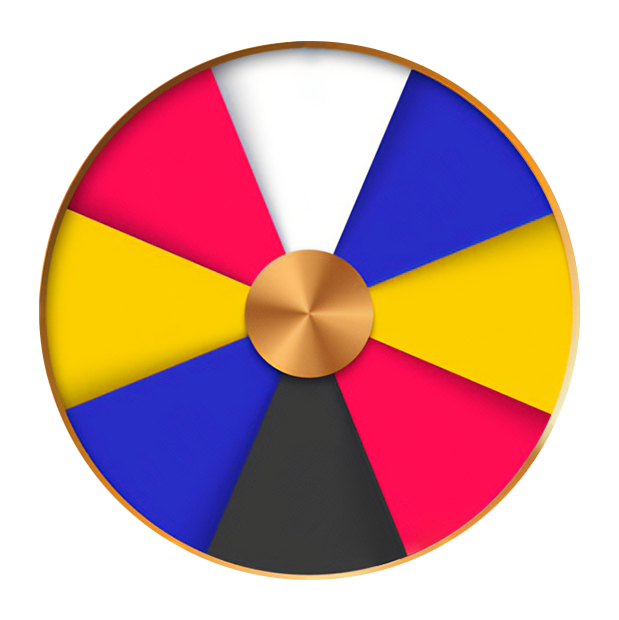
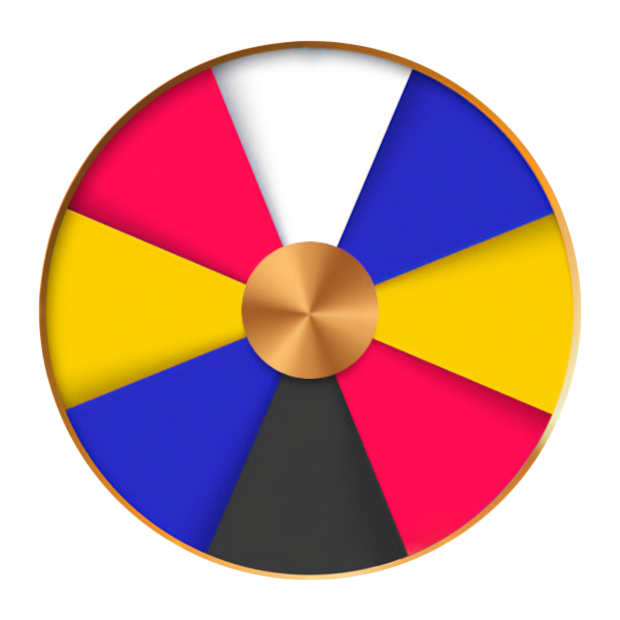
fix button header

Changed region(s): [[0.399, 0.3677, 0.6139, 0.6129], [0.3683, 0.4597, 0.399, 0.5516], [0.399, 0.5516, 0.4297, 0.5823]]

diff --git a/assets/css/pages.css b/assets/css/pages.css
@@ -63,35 +63,43 @@
 .how-to-play-btn {
   background: #505566;
   color: white;
-  border: none;
-  padding: 8px 16px;
+  padding: 5px 12px;
   border-radius: 7px;
   cursor: pointer;
-  font-size: 12px;
+  font-size: calc(0.35 * max(5vh, 80px));
+  font-weight: bold;
   white-space: nowrap;
+  height: 95%;
+  display: flex;
+  align-items: center;
 }
 
 .counter {
   background: #505566;
   color: white;
-  padding: 8px 16px;
+  padding: 5px 12px;
   border-radius: 7px;
-  font-size: 12px;
+  font-size: calc(0.35 * max(5vh, 80px));
+  font-weight: bold;
   white-space: nowrap;
+  height: 95%;
+  display: flex;
+  align-items: center;
 }
 
 .fullscreen-btn {
   background: #505566;
   color: white;
-  border: none;
-  padding: 8px;
+  padding: 5px 12px;
   border-radius: 7px;
   cursor: pointer;
-  width: 30px;
-  height: 30px;
+  height: 95%;
+  min-width: 60px;
   display: flex;
   align-items: center;
   justify-content: center;
+  font-size: calc(0.35 * max(5vh, 80px));
+  font-weight: bold;
   white-space: nowrap;
 }
 
@@ -302,7 +310,7 @@
 /* Mobile landscape styles - ONLY for mobile phones landscape */
 @media (max-width: 667px) and (orientation: landscape) {
   .header {
-    height: max(5vh, 50px);
+    height: max(5vh, 70px);
   }
   .main-box {
     height: calc(100% - max(5vh, 50px));

diff --git a/index.html b/index.html
@@ -19,9 +19,9 @@
               <img src="/assets/images/common/logo1.png" alt="Logo">
             </div>
             <div class="nav-buttons">
-              <button class="how-to-play-btn">How to play?</button>
+              <div class="how-to-play-btn">How to play?</div>
               <div class="counter">627 154: 19</div>
-              <button class="fullscreen-btn">⛶</button>
+              <div class="fullscreen-btn">⛶</div>
             </div>
           </div>
           
@@ -63,9 +63,9 @@
               <img src="/assets/images/common/logo1.png" alt="Logo">
             </div>
             <div class="nav-buttons">
-              <button class="how-to-play-btn">How to play?</button>
+              <div class="how-to-play-btn">How to play?</div>
               <div class="counter">627 154: 19</div>
-              <button class="fullscreen-btn">⛶</button>
+              <div class="fullscreen-btn">⛶</div>
             </div>
           </div>
           

diff --git a/assets/js/game-manager.js b/assets/js/game-manager.js
@@ -88,12 +88,12 @@ export class GameManager {
   }
   
   getCurrentRotation(element) {
-    const transform = window.getComputedStyle(element).transform
-    if (transform && transform !== 'none') {
-      const values = transform.split('(')[1].split(')')[0].split(',')
-      const a = parseFloat(values[0])
-      const b = parseFloat(values[1])
-      return Math.atan2(b, a) * (180 / Math.PI)
+    const style = element.style.transform
+    if (style && style.includes('rotate(')) {
+      const match = style.match(/rotate\(([^)]+)deg\)/)
+      if (match) {
+        return parseFloat(match[1])
+      }
     }
     return 0
   }

diff --git a/assets/js/simple-entrance-animations.js b/assets/js/simple-entrance-animations.js
@@ -121,16 +121,7 @@ export class SimpleEntranceAnimations {
   }
   
   animateWheelCenter() {
-    const element = document.querySelector('.wheel-center')
-    if (!element) return
-    
-    element.style.opacity = '1'
-    element.style.transform = 'translate(-50%, -50%) scale(3.0)'
-    
-    const animation = { scale: 3.0 }
-    this.animate(animation, { scale: 1 }, 1000, this.easeOutBack, (values) => {
-      element.style.transform = `translate(-50%, -50%) scale(${values.scale})`
-    })
+    // Wheel center should be static - no animation
   }
   
   animateChicken() {

diff --git a/assets/css/components.css b/assets/css/components.css
@@ -57,6 +57,13 @@
 }
 
 .wheel-center {
+  position: absolute;
+  top: 50%;
+  left: 50%;
+  transform: translate(-50%, -50%);
+  width: 100%;
+  height: 100%;
+  object-fit: contain;
   z-index: 50;
 }
 
